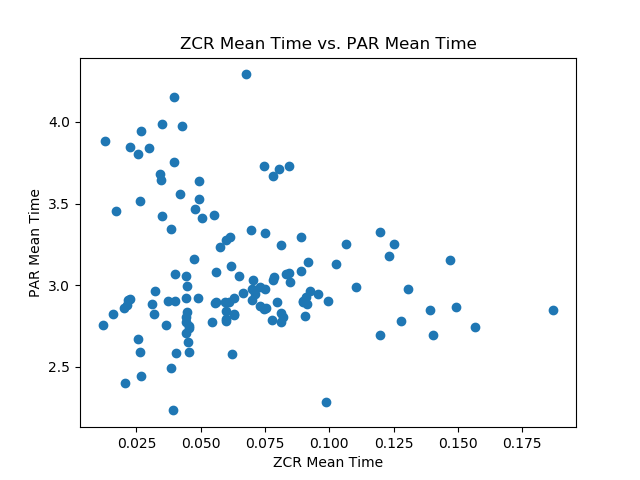
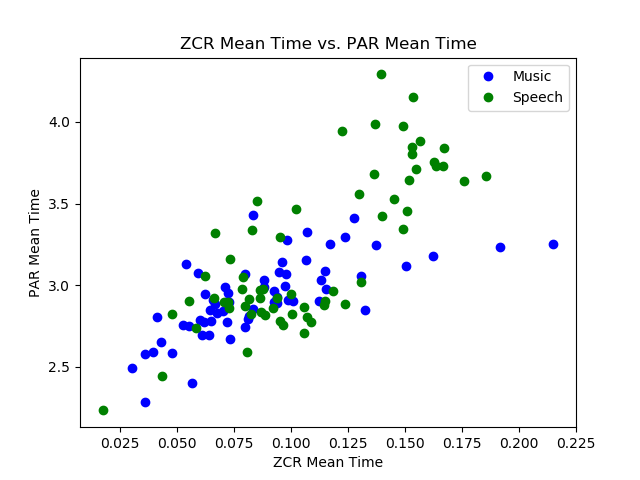
fixed plots

diff --git a/Assignment3.py b/Assignment3.py
@@ -1,4 +1,4 @@
-import matplotlib.pyplot as plot
+import matplotlib.pyplot as plt
 
 FEATURES_FILE = "features.arff"
 
@@ -6,10 +6,14 @@ FEATURES_FILE = "features.arff"
 def main():
     # PART I: VISUALIZATION
     # Initialize the arrays to hold each parameter
-    zcr_mean_time_arr = []
-    par_mean_time_arr = []
-    zcr_std_time_arr = []
-    par_std_time_arr = []
+    zcr_mean_music_arr = []
+    par_mean_music_arr = []
+    zcr_std_music_arr = []
+    par_std_music_arr = []
+    zcr_mean_speech_arr = []
+    par_mean_speech_arr = []
+    zcr_std_speech_arr = []
+    par_std_speech_arr = []
 
     # Main loop to read in ARFF file
     with open(FEATURES_FILE, 'r') as file:
@@ -20,41 +24,51 @@ def main():
         # Extract the relevant data from each line in the file
         for line in file:
             data_arr = line.split(",")
-            zcr_mean_time = float(data_arr[0])
+
             par_mean_time = float(data_arr[1])
-            zcr_std_time = float(data_arr[7])
+            zcr_mean_time = float(data_arr[2])
             par_std_time = float(data_arr[6])
+            zcr_std_time = float(data_arr[7])
 
-            zcr_mean_time_arr.append(zcr_mean_time)
-            par_mean_time_arr.append(par_mean_time)
-            zcr_std_time_arr.append(zcr_std_time)
-            par_std_time_arr.append(par_std_time)
+            data_type = data_arr[72].strip()
+            if data_type == "music":
+                zcr_mean_music_arr.append(zcr_mean_time)
+                par_mean_music_arr.append(par_mean_time)
+                zcr_std_music_arr.append(zcr_std_time)
+                par_std_music_arr.append(par_std_time)
+            else:
+                zcr_mean_speech_arr.append(zcr_mean_time)
+                par_mean_speech_arr.append(par_mean_time)
+                zcr_std_speech_arr.append(zcr_std_time)
+                par_std_speech_arr.append(par_std_time)
 
-    print(zcr_mean_time_arr)
-    print(par_mean_time_arr)
-    print(zcr_std_time_arr)
-    print(par_std_time_arr)
-    # Plot the graphs using extracted data
-    plot_mean(zcr_mean_time_arr, par_mean_time_arr)
-    plot_std(zcr_std_time_arr, par_std_time_arr)
+    # plot the graphs using extracted data
+    plot_mean(zcr_mean_music_arr, par_mean_music_arr, zcr_mean_speech_arr, par_mean_speech_arr)
+    plot_std(zcr_std_music_arr, par_std_music_arr, zcr_std_speech_arr, par_std_speech_arr)
 
 
 # Function to plot zcr mean vs. par mean
-def plot_mean(zcr_arr, par_arr):
-    plot.plot(zcr_arr, par_arr, 'o')
-    plot.title("ZCR Mean Time vs. PAR Mean Time")
-    plot.xlabel("ZCR Mean Time")
-    plot.ylabel("PAR Mean Time")
-    plot.savefig("zcr-par-mean.png")
+def plot_mean(zcr_music, par_music, zcr_speech, par_speech):
+    plt.plot(zcr_music, par_music, 'bo', label='Music')
+    plt.plot(zcr_speech, par_speech, 'go', label="Speech")
+    plt.title("ZCR Mean Time vs. PAR Mean Time")
+    plt.xlabel("ZCR Mean Time")
+    plt.ylabel("PAR Mean Time")
+    plt.legend()
+    plt.savefig("zcr-par-mean.png")
+    plt.clf()
 
 
 # Function to plot zcr std vs. par std
-def plot_std(zcr_arr, par_arr):
-    plot.plot(zcr_arr, par_arr, 'o')
-    plot.title("ZCR Mean Time vs. PAR Mean Time")
-    plot.xlabel("ZCR Mean Time")
-    plot.ylabel("PAR Mean Time")
-    plot.savefig("zcr-par-std.png")
+def plot_std(zcr_music, par_music, zcr_speech, par_speech):
+    plt.plot(zcr_music, par_music, 'bo', label="Music")
+    plt.plot(zcr_speech, par_speech, 'go', label="Speech")
+    plt.title("ZCR Std Time vs. PAR Std Time")
+    plt.xlabel("ZCR Std Time")
+    plt.ylabel("PAR Std Time")
+    plt.legend()
+    plt.savefig("zcr-par-std.png")
+    plt.clf()
 
 
 main()
